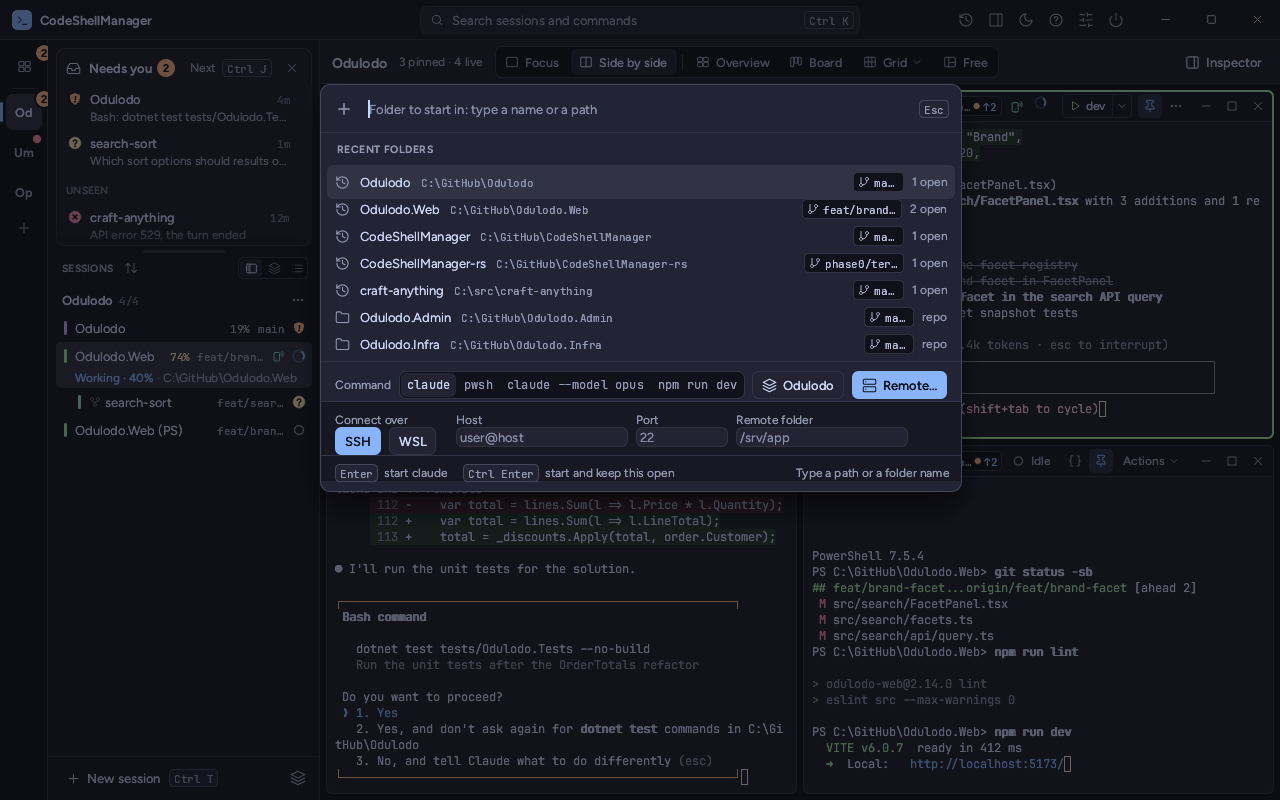
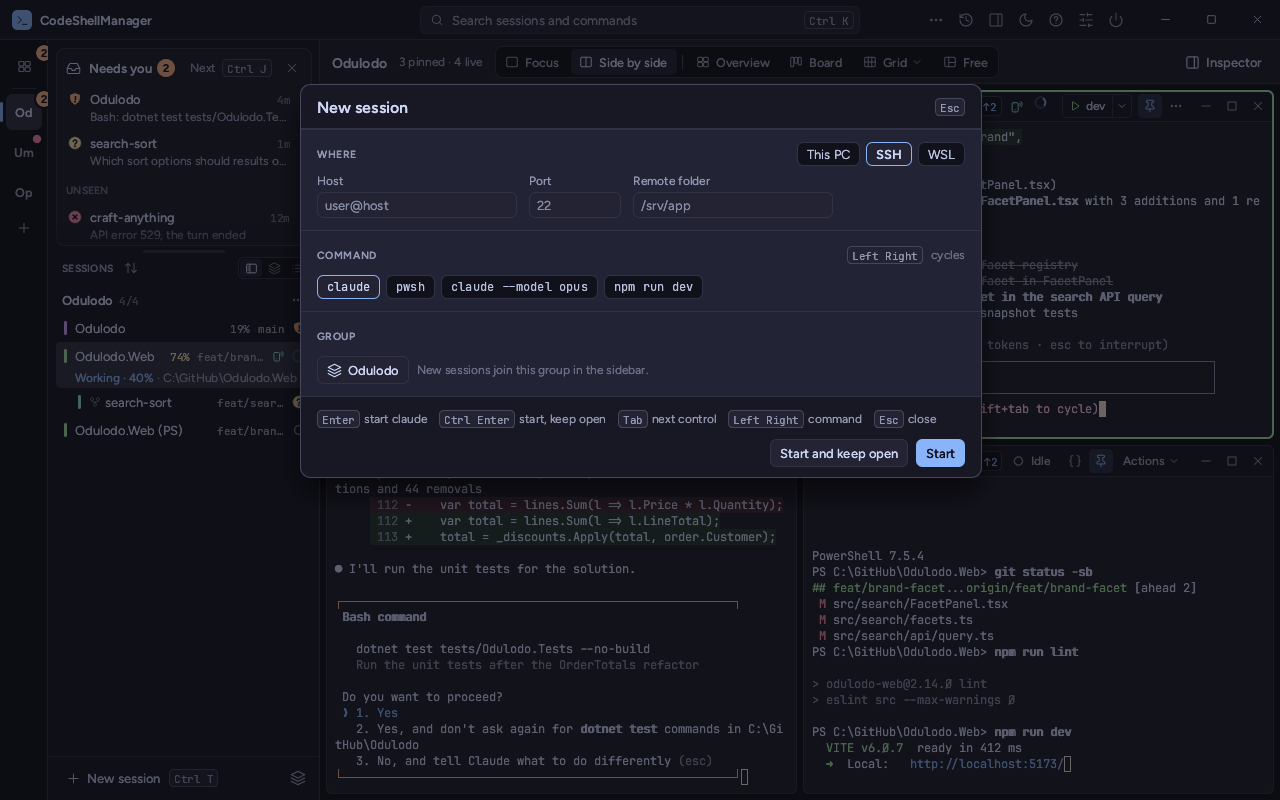
Docs sweep: README, docs index and CHANGELOG match what v2 now does
README: New session dialog (This PC / SSH / WSL), Fun themes and [theme.style], Remote access
section, keyboard control and quit bullets, restored-session notifications, slashed zero, install
folder move and signing, csm doctor/setup repair, F6/F10 shortcut rows, FAQ listener wording.
docs index: keyboard.md and the two design notes. CHANGELOG: new session dialog, remote access,
notification, doctor and signing lines. Regenerated screens: new session, shutdown, help.

Claude-Session: https://claude.ai/code/session_01W5FasiVSwTVCABQ9n9zXTw

Changed region(s): [[0.2188, 0.125, 0.7812, 0.625], [0.25, 0.125, 0.4688, 0.1875], [0.5, 0.2188, 0.5625, 0.2812]]

diff --git a/README.md b/README.md
@@ -158,12 +158,16 @@ can read and update their own tasks over MCP.
 
 ### New session in a keystroke
 
-`Ctrl+T` opens a quick-open: type a folder name (recent folders and git repositories are listed),
-press Enter, and Claude starts there. Pick another command (a shell, a preset, an add-on profile)
-from the row underneath, or choose **Remote…** for SSH (your own `ssh` and its config) or a WSL
-distribution.
+`Ctrl+T` opens the New session dialog: type a folder name (up to eight recent folders and git
+repositories are listed), press Enter, and Claude starts there. Pick another command (a shell, a
+preset, an add-on profile) from the chips underneath, and a profile and group if you want them.
+A **This PC / SSH / WSL** selector chooses where it runs: SSH uses your own `ssh` and its config,
+WSL one of your distributions. **Start and keep open** (`Ctrl+Enter`) starts one and leaves the
+dialog up for the next. `Alt+1…9` switch tabs, `Alt+R` cycles the location, `Alt+G` picks the
+group, and Tab moves through every control. Add-ons can add tabs with a form of their own, such as
+**New NEXUS agent**.
 
-![The new-session quick-open with the Remote… options](docs/screens/08-new-session-remote.png)
+![The New session dialog with the This PC / SSH / WSL selector](docs/screens/08-new-session.png)
 
 ### Command palette and search
 
@@ -202,9 +206,22 @@ Add-ons extend the app: launch profiles for other agents (with status rules), ru
 slash-command presets and palette commands, or a separate program that adds its own tools and
 screens. Nothing runs until you enable it, and enabling shows what the add-on adds and asks.
 Claude usage is built in and listed there too. **Settings → Add-ons → Install samples** adds the ones that ship with the app: Codex CLI, Gemini
-CLI, Review (changed files, diffs and line comments that agents answer), Session summary and Themes.
-Themes come from add-on packs too: a pack lists colours (no code) and Settings → Appearance picks the dark and the light theme.
+CLI, Review (changed files, diffs and line comments that agents answer), Session summary, Themes
+and Fun themes.
+Themes come from add-on packs too: a pack lists colours (no code) and Settings → Appearance picks
+the dark and the light theme. A theme can also style the window (`[theme.style]`: corners, bevelled
+borders, title bar colours, and UI and terminal fonts the pack ships); **Fun themes** has Emacs,
+Windows 98 and Blossom.
 Write your own: [docs/addons.md](docs/addons.md).
+
+### Remote access
+
+Show an office CodeShellManager's sessions on another machine: **Settings → Remote access** turns
+it on and pairs a device, over a private network (WireGuard, Tailscale) or through a relay when
+there is no VPN. The remote window types into the sessions and answers their consent cards, and
+`csm attach` does the same from a terminal. Off until you switch it on, and only the person at the
+app can. See [docs/remote-access.md](docs/remote-access.md). The relay server and a phone add-on
+live in the separate, private `umage-ai/csm-relay` repository.
 
 ### And more
 
@@ -213,7 +230,11 @@ Write your own: [docs/addons.md](docs/addons.md).
 - **Restore on start.** Sessions come back when the app starts, Claude ones with `--resume`,
   launched in a stagger so Claude's shared config isn't corrupted.
 - **Close warning.** Closing a busy session, or the app, lists what's still working and asks first;
-  `Ctrl+Shift+T` reopens what you closed.
+  `Ctrl+Shift+T` reopens what you closed. Quitting closes Claude sessions four at a time (Settings
+  → General) and keeps a safety copy of `~/.claude.json`: [docs/quit.md](docs/quit.md).
+- **Keyboard control.** Everything works without the mouse: `F6` moves between regions,
+  `Ctrl+Alt+Arrow` between panes, `F10` opens the main menu, `Shift+F10` a context menu, and every
+  key is rebindable. See [docs/keyboard.md](docs/keyboard.md).
 - **Recent sessions.** `Ctrl+Shift+E` lists the sessions you used last.
 - **Send to all.** Paste the same prompt into every live session of a group.
 - **Open with…** VS Code (and Insiders), Cursor, Windsurf, VSCodium, Visual Studio, JetBrains IDEs,
@@ -225,7 +246,8 @@ Write your own: [docs/addons.md](docs/addons.md).
   Program Status Protocol (Claude Code does this out of the box).
 - **Backup.** Export your whole setup to a `.csm` file and import it on another machine.
 - **Tray and notifications.** A tray icon with the Needs you count, system notifications, and the
-  option to keep running in the tray when the window closes.
+  option to keep running in the tray when the window closes. A restored session stays quiet until
+  you have looked at it.
 - **Start at sign-in.** Settings → General → Start-up starts the app when you sign in (Windows,
   macOS, Linux), optionally minimized or hidden in the tray, with your sessions restored.
 - **Drop files** on a pane to paste their paths, quoted for the session's shell.
@@ -233,7 +255,8 @@ Write your own: [docs/addons.md](docs/addons.md).
   pane's menu copy a reply or one of its code blocks exactly as Claude wrote it, from the transcript;
   a selection copied from a Claude pane loses Claude's markers and wrapping (`Ctrl+Alt+C` copies it
   as shown).
-- **Light and dark themes** (Catppuccin Latte and Mocha) and interface zoom.
+- **Themes and zoom.** Catppuccin Latte and Mocha, more from theme add-ons, and interface zoom.
+  The default terminal font draws `0` with a slash, so it never reads as `8`.
 
 ## Requirements
 
@@ -268,6 +291,13 @@ Update with `choco upgrade codeshellmanager` (or `choco upgrade all`).
    - `CodeShellManager-x.y.z-Setup.msi`: the installer (Start menu shortcut, uninstall from Apps &
      Features)
    - `CodeShellManager-x.y.z-win-x64.zip`: portable; extract and run `codeshell.exe`
+
+The installer puts the app in `C:\Program Files\umage.ai\CodeShellManager`. That is a clean break
+from 0.x, which lived under `C:\Program Files\umage\`: the upgrade removes the old folder, so
+**taskbar pins to the old app need re-pinning**. Release and development builds are code-signed.
+If something looks wrong afterwards, `csm doctor` reports the install (its channel and which apps
+are published), and agent registrations that `csm setup` wrote and that still name the old folder
+are repaired when the app starts.
 
 Both include `csm.exe`, the command line and MCP server. How releases are built and published:
 [docs/release.md](docs/release.md) and [docs/distribution.md](docs/distribution.md).
@@ -318,6 +348,9 @@ Settings › Keyboard; [docs/keyboard.md](docs/keyboard.md) has the whole list a
 | `Ctrl+Shift+C` | Copy Claude's last reply (in a Claude pane, nothing selected) |
 | `F2` | Rename the active session |
 | `F5` / `Shift+F5` | Run / stop the default run command |
+| `F10` | Main menu: every action, by area |
+| `F6` / `Shift+F6` | Next / previous keyboard region |
+| `Ctrl+Alt+Arrows` | Focus the pane in that direction |
 | `Ctrl+,` | Settings |
 | `Ctrl+=` / `Ctrl+-` / `Ctrl+0` | Zoom in / out / reset |
 
@@ -359,8 +392,9 @@ usage, subagents). Codex CLI and Gemini CLI have sample add-ons with launch prof
 rules. Anything else runs as a plain terminal.
 
 **Does anything leave my machine?** No account, no telemetry. The only listener is a loopback
-connection for `csm` and `csm mcp`, authenticated with a token per launch. Git fetch and SSH go
-where you point them.
+connection for `csm` and `csm mcp`, authenticated with a token per launch, unless you switch on
+[remote access](docs/remote-access.md), which is off by default. Git fetch and SSH go where you
+point them.
 
 **What happens to running agents when I close the window?** By default, closing quits: busy
 sessions are listed first, and every session gets a moment to exit. With *Keep running in the tray

diff --git a/CHANGELOG.md b/CHANGELOG.md
@@ -86,8 +86,13 @@ replaces 0.x: winget and Chocolatey upgrade it like any other release.
   Drag a task onto an agent to send it (after a confirm showing the exact prompt), accept or reopen
   it in Review. Each Claude session's card lists its subagents and workflow runs.
 - **Command palette** (`Ctrl+K`) over every command and every session.
-- **Quick-open for new sessions** (`Ctrl+T`): type a folder, press Enter; SSH and WSL under
-  *Remote…*.
+- **New session dialog** (`Ctrl+T`): type a folder, press Enter. A **This PC / SSH / WSL** selector
+  replaces *Remote…*; up to eight recent folders, wrapping command chips, a profile and group, form
+  tabs from add-ons (New NEXUS agent), **Start** and **Start and keep open**, `Alt+1…9`, `Alt+R`,
+  `Alt+G`.
+- **Remote access (CSM to CSM)**: Settings › Remote access turns it on, pairs devices and can reach
+  the office through a relay; remote windows and `csm attach`. Off until you switch it on. See
+  docs/remote-access.md.
 - **The `csm` command line**: every action in the app is a tool, and every tool is a `csm`
   subcommand. `csm setup`, `csm doctor` and `csm uninstall` connect `csm mcp` to Claude Code,
   Claude Desktop, Codex and Cursor.
@@ -125,6 +130,9 @@ closed (`Ctrl+Shift+T`) and Recent sessions (`Ctrl+Shift+E`); `.csm` backup expo
 file drop; Claude slash-command menu; `--clean`.
 
 ### Changed
+- **Restored sessions do not notify** (popups or screen-text alerts) until you have addressed them.
+- **`csm doctor`** reports its channel, the app id it looks for and which apps are published.
+- Development (dispatch) builds are signed and verified like release builds.
 - **A slashed zero in the terminal**: at small sizes the dot inside the default font's `0` filled in and
   it read as an `8`. The default terminal font now draws `0` with a slash through it. A font you
   chose yourself (`--font`) is drawn as designed.

diff --git a/docs/README.md b/docs/README.md
@@ -9,6 +9,7 @@ it, the feature tour and the keyboard shortcuts.
 |---|---|
 | [comparison.md](comparison.md) | How CodeShellManager compares with other multi-agent tools on Windows |
 | [ssh-ports.md](ssh-ports.md) | Links to localhost on an SSH session's remote host, and port forwards: what opens and why |
+| [keyboard.md](keyboard.md) | Keyboard control: every key, menus, lists, dialogs, F6 regions, and rebinding in Settings › Keyboard |
 | [quit.md](quit.md) | What quitting does: the bounded pool of Claude exits (`QuitClaudeConcurrency`), the `~/.claude.json` backup and restore, force close |
 | [shell-integration.md](shell-integration.md) | OSC 9001 (accent colour, branch, title) and OSC 7501 (program status) for programs running in a session |
 | [tools.md](tools.md) | Every tool: what the app, `csm <tool>` and `csm mcp` can do, the consent rules for MCP clients, toolsets |
@@ -33,6 +34,8 @@ it, the feature tour and the keyboard shortcuts.
 |---|---|
 | [../.github/CONTRIBUTING.md](../.github/CONTRIBUTING.md) | Building, the checks a change must pass, the rules |
 | [../.github/SECURITY.md](../.github/SECURITY.md) | Reporting a vulnerability; the security model |
+| [design/keyboard.md](design/keyboard.md) | Design of the keyboard navigation and the rebindable keymap |
+| [design/remote-csm.md](design/remote-csm.md) | Design of CSM-to-CSM remote access, the peer link and the relay path |
 | [plan.md](plan.md) | The 2.0 rewrite: architecture, crate layers, design decisions and their reasons (a historical plan; some sections describe the work as it was planned) |
 | [phase0-spike.md](phase0-spike.md) | The terminal-rendering spike that decided the stack (historical) |
 | [wpf/](wpf/) | The 0.x WPF app: its README, its comparison, and `lessons.md`, the record of hard-won behaviour (ConPTY, git, quoting, restart and shutdown races) that 2.0 carries over |
